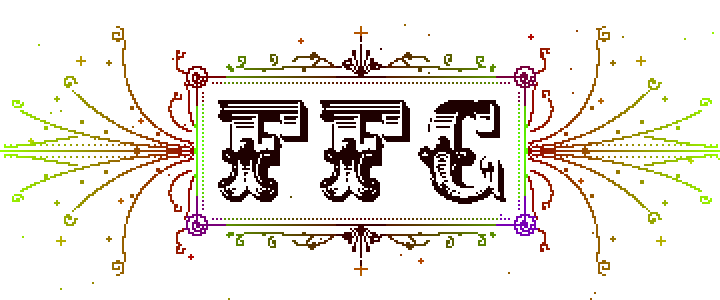
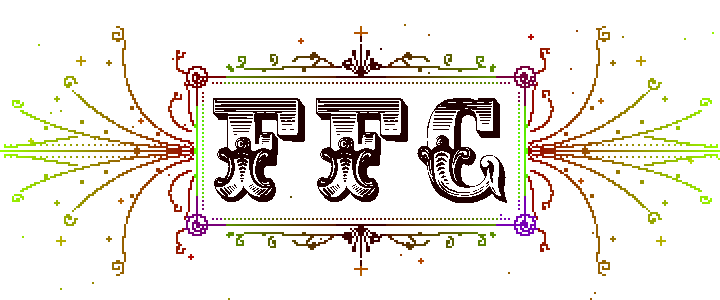
Replace rift with wireframe-to-Win95-boot hills section; hi-res dithered FFC letters

Changed region(s): [[0.275, 0.3, 0.7028, 0.69]]

diff --git a/scene.js b/scene.js
@@ -1,0 +1,96 @@
+// Scroll section: wireframe line-trace of the hills wallpaper, then a Win95-style stepped/dithered boot fade-in.
+// Perf: lines drawn incrementally onto a persistent canvas (no clears), dither steps computed ~8 times total,
+// nothing runs per frame outside the ~5s build; runs from the page's single rAF loop (FFC_HOOKS).
+(()=>{
+const sec=document.getElementById('scene'),sl=document.getElementById('sl'),sf=document.getElementById('sf'),img=document.getElementById('sbg');
+const boot=document.getElementById('boot'),bfill=document.getElementById('bfill');
+const lc=sl.getContext('2d'),fc=sf.getContext('2d');
+let data=null,state=0,t=0,segs=[],total=0,drawnLen=0,step=-1,src=null,SW=0,SH=0,secTop=0,secH=0;
+const T_LINES=2.8,T_FADE=1.7,STEPS=9,LS=2;     // line canvas at 1/2 css res (chunky pixels), fade canvas at 1/3
+const BAY=[0,8,2,10,12,4,14,6,3,11,1,9,15,7,13,5];
+fetch('scene-lines.json').then(r=>r.json()).then(j=>{data=j;layout();});
+function layout(){const r=sec.getBoundingClientRect();secTop=r.top+scrollY;secH=r.height;SW=r.width;SH=r.height;
+  sl.width=Math.ceil(SW/LS);sl.height=Math.ceil(SH/LS);sf.width=Math.ceil(SW/3);sf.height=Math.ceil(SH/3);
+  if(!data)return;segs=[];total=0;
+  const sc=Math.max(sl.width/data.w,sl.height/data.h),ox=(sl.width-data.w*sc)/2,oy=(sl.height-data.h*sc)/2;   // object-fit:cover mapping
+  const order={sky:0,cloud:1,hill:2,grass:3};
+  const L=data.lines.slice().sort((a,b)=>order[a.k]-order[b.k]);
+  for(const ln of L){const col=ln.k==='hill'?'#5dff6e':ln.k==='grass'?'#2fbf4a':ln.k==='cloud'?'#cfe9ff':'#3aa0ff';
+    for(let i=0;i<ln.p.length-1;i++){const x0=ox+ln.p[i][0]*data.w*sc,y0=oy+ln.p[i][1]*data.h*sc,x1=ox+ln.p[i+1][0]*data.w*sc,y1=oy+ln.p[i+1][1]*data.h*sc;
+      const len=Math.hypot(x1-x0,y1-y0);segs.push({x0,y0,x1,y1,len,start:total,col});total+=len;}}
+  if(state>=2)lc.clearRect(0,0,sl.width,sl.height),drawLines(total);
+}
+let rt;addEventListener('resize',()=>{clearTimeout(rt);rt=setTimeout(layout,150);});
+function drawLines(upTo){ // draw only the newly reached part of the path
+  for(const s of segs){if(s.start>=upTo)break;if(s.start+s.len<=drawnLen)continue;
+    const a=Math.max(0,(drawnLen-s.start)/s.len),b=Math.min(1,(upTo-s.start)/s.len);
+    lc.strokeStyle=s.col;lc.lineWidth=1;lc.beginPath();lc.moveTo(s.x0+(s.x1-s.x0)*a,s.y0+(s.y1-s.y0)*a);lc.lineTo(s.x0+(s.x1-s.x0)*b,s.y0+(s.y1-s.y0)*b);lc.stroke();}
+  drawnLen=upTo;}
+function prepSrc(){src=document.createElement('canvas');src.width=sf.width;src.height=sf.height;const c=src.getContext('2d');
+  const sc=Math.max(src.width/img.naturalWidth,src.height/img.naturalHeight);
+  c.drawImage(img,(src.width-img.naturalWidth*sc)/2,(src.height-img.naturalHeight*sc)/2,img.naturalWidth*sc,img.naturalHeight*sc);
+  src=c.getImageData(0,0,src.width,src.height);}
+function ditherStep(k){ // Win95-ish: ordered-dither reveal + coarse palette early on
+  if(!src)prepSrc();const w=sf.width,h=sf.height,out=fc.createImageData(w,h),d=out.data,s=src.data,th=k/STEPS*16;
+  const lv=k<3?2:k<5?4:k<7?8:256,q=255/(lv-1);
+  for(let y=0;y<h;y++)for(let x=0;x<w;x++){if(BAY[(y&3)*4+(x&3)]>=th)continue;const i=(y*w+x)*4;
+    if(lv<256){d[i]=Math.round(s[i]/q)*q;d[i+1]=Math.round(s[i+1]/q)*q;d[i+2]=Math.round(s[i+2]/q)*q;}else{d[i]=s[i];d[i+1]=s[i+1];d[i+2]=s[i+2];}d[i+3]=255;}
+  fc.putImageData(out,0,0);
+  sf.classList.toggle('flick',k===2);sf.classList.toggle('flick2',k===5);}
+function finish(){state=3;sec.classList.add('done');boot.classList.remove('on');document.dispatchEvent(new Event('scene-start'));}
+function hook(dt){
+  if(state===3||!data)return;
+  const top=secTop-scrollY;
+  if(state===0){if(top+secH<=0){layout();drawLines(total);finish();return;}       // loaded already past it
+    if(top<innerHeight*.65&&top+secH>0){state=1;t=0;document.dispatchEvent(new Event('scene-start'));}else return;}
+  t+=dt;
+  if(state===1){const k=Math.min(1,t/T_LINES),e=k<.5?2*k*k:1-Math.pow(-2*k+2,2)/2;drawLines(total*e);
+    if(t>T_LINES-.4)boot.classList.add('on');bfill.style.width=Math.min(100,(t-(T_LINES-.4))/(T_FADE+.6)*100)+'%';
+    if(k>=1){state=2;t=0;}return;}
+  if(state===2){if(!img.complete)return;const k=Math.min(STEPS,1+Math.floor(t/T_FADE*STEPS));
+    if(k!==step){step=k;ditherStep(k);}bfill.style.width=Math.min(100,(t+.4)/(T_FADE+.6)*100)+'%';
+    if(t>T_FADE+.2)finish();}
+}
+(window.FFC_HOOKS=window.FFC_HOOKS||[]).push(hook);
+addEventListener('load',layout);
+})();
+
+// ---- cloud lettering (rendered ONCE, animated with CSS transforms only) + click reveal
+(()=>{
+const scr=document.getElementById('scr'),cv=document.getElementById('clouds'),cv2=document.getElementById('clouds2');
+const TEXT='Archive of Things';let built=false;
+function puffSprite(seed){const S=96,o=document.createElement('canvas');o.width=o.height=S;const x=o.getContext('2d');let r=seed;const R=()=>(r=(r*16807)%2147483647)/2147483647;
+  for(let i=0;i<46;i++){const a=R()*6.283,d=Math.pow(R(),.7)*S*.3,px=S/2+Math.cos(a)*d,py=S/2+Math.sin(a)*d*.8,rr=S*(.08+R()*.16);
+    const gr=x.createRadialGradient(px,py,0,px,py,rr);gr.addColorStop(0,'rgba(255,255,255,.55)');gr.addColorStop(.6,'rgba(255,255,255,.22)');gr.addColorStop(1,'rgba(255,255,255,0)');x.fillStyle=gr;x.fillRect(0,0,S,S);}
+  x.globalCompositeOperation='source-atop';const sh=x.createLinearGradient(0,S*.15,0,S*.9);
+  sh.addColorStop(0,'rgba(255,255,255,0)');sh.addColorStop(.55,'rgba(225,232,242,.25)');sh.addColorStop(1,'rgba(150,162,182,.85)');x.fillStyle=sh;x.fillRect(0,0,S,S);return o;}
+function render(canvas,seed0){
+  const r=scr.getBoundingClientRect();if(r.width<10)return false;const DPR=Math.min(1.5,devicePixelRatio||1),W=r.width,H=r.height;
+  canvas.width=Math.round(W*DPR);canvas.height=Math.round(H*DPR);const c=canvas.getContext('2d');c.setTransform(DPR,0,0,DPR,0,0);
+  const sprites=[];for(let i=0;i<10;i++)sprites.push(puffSprite(seed0+i*7919));
+  const m=document.createElement('canvas'),mw=Math.round(W),mh=Math.round(H);m.width=mw;m.height=mh;const x=m.getContext('2d');
+  let fs=Math.min(mh*.17,mw*.085);x.font=`800 ${fs}px "Baloo 2", system-ui, sans-serif`;
+  while(x.measureText(TEXT).width>mw*.6){fs*=.95;x.font=`800 ${fs}px "Baloo 2", system-ui, sans-serif`;}
+  x.textAlign='center';x.textBaseline='middle';x.fillStyle='#fff';x.fillText(TEXT,mw/2,mh*.25);
+  const d=x.getImageData(0,0,mw,mh).data,step=Math.max(2.5,fs/17);let s=seed0;const R=()=>(s=(s*16807)%2147483647)/2147483647;const P=[];
+  for(let y=0;y<mh;y+=step)for(let xx=0;xx<mw;xx+=step){const jx=xx+(R()-.5)*step,jy=y+(R()-.5)*step,i=((jy|0)*mw+(jx|0))*4;
+    if(jx>=0&&jy>=0&&jx<mw&&jy<mh&&d[i+3]>128)P.push({x:jx,y:jy,r:step*(1.05+R()*.75),sp:sprites[R()*sprites.length|0],a:.55+R()*.35});}
+  P.sort((a,b)=>a.y-b.y);
+  // puffs drawn without per-draw filters; one blur pass over the finished bitmap
+  for(const p of P){const r2=p.r*1.1;c.globalAlpha=p.a*.35;c.drawImage(p.sp,p.x-r2,p.y-r2+p.r*.35,r2*2,r2*2);}
+  for(const p of P){const r2=p.r*.9;c.globalAlpha=p.a;c.drawImage(p.sp,p.x-r2,p.y-r2,r2*2,r2*2);}
+  c.globalAlpha=1;const tmp=document.createElement('canvas');tmp.width=canvas.width;tmp.height=canvas.height;tmp.getContext('2d').drawImage(canvas,0,0);
+  c.setTransform(1,0,0,1,0,0);c.clearRect(0,0,canvas.width,canvas.height);c.filter='blur(0.6px)';c.drawImage(tmp,0,0);c.filter='none';return true;}
+function build(){if(built)return;built=render(cv,7);if(built)setTimeout(()=>render(cv2,4242),1200);} // stagger 2nd variant
+let started=false;const start=()=>{if(started)return;started=true;(document.fonts?document.fonts.load('800 40px "Baloo 2"'):Promise.resolve()).finally(()=>{built=false;setTimeout(build,60);});};
+document.addEventListener('scene-start',start);
+let rt=null;addEventListener('resize',()=>{clearTimeout(rt);rt=setTimeout(()=>{if(built){built=false;build();}},200);});
+// click sequence (only inside the opening)
+const h=document.getElementById('cae'),go=document.getElementById('go');
+h.innerHTML=[...'Create and Explore'].map(ch=>`<span>${ch===' '?'&nbsp;':ch}</span>`).join('');
+let played=false;
+function play(){if(played)return;played=true;scr.classList.add('played');
+  [...h.children].forEach((sp,i)=>setTimeout(()=>sp.classList.add('on'),i*55));setTimeout(()=>go.classList.add('on'),18*55+350);}
+scr.addEventListener('click',e=>{if(e.target===go)return;if(!document.getElementById('scene').classList.contains('done'))return;play();});
+scr.addEventListener('keydown',e=>{if(e.key==='Enter'||e.key===' '){e.preventDefault();play();}});
+})();

diff --git a/index.html b/index.html
@@ -14,44 +14,38 @@ body{height:400vh}
 canvas{position:fixed;inset:0;width:100vw;height:100vh;image-rendering:pixelated;image-rendering:crisp-edges;display:block}
 
 #c{z-index:0}
-#fx{position:fixed;inset:0;width:100vw;height:100vh;image-rendering:pixelated;image-rendering:crisp-edges;pointer-events:none;z-index:2}
 #hint{z-index:3}
-#rift{position:absolute;left:50%;top:200vh;transform:translate(-50%,-50%);width:min(760px,92vw);height:min(480px,72vh);z-index:1;visibility:hidden;opacity:0;
-  display:flex;flex-direction:column;background:#c0c0c0;box-shadow:inset -1px -1px #404040,inset 1px 1px #fff,inset -2px -2px #808080,inset 2px 2px #dfdfdf;
-  font-family:"MS Sans Serif",Tahoma,"Segoe UI",sans-serif;color:#000;box-sizing:border-box;padding:3px}
-#rift.open{visibility:visible;opacity:1;transition:opacity .25s}
-#rift .tb{display:flex;align-items:center;gap:6px;height:22px;padding:0 3px;background:linear-gradient(90deg,#000080,#1084d0);color:#fff;font-weight:700;font-size:13px}
-#rift .tb img{width:16px;height:16px;image-rendering:pixelated}
-#rift .tb .bt{margin-left:auto;display:flex;gap:2px}
-#rift .tb .bt span{width:16px;height:14px;background:#c0c0c0;color:#000;font:700 10px/14px Tahoma,sans-serif;text-align:center;box-shadow:inset -1px -1px #404040,inset 1px 1px #fff}
-#rift .scr{position:relative;flex:1;margin-top:3px;background:#008080 url(https://rainbowroar14.github.io/PC/assets2/desktop-bg.png) center/cover;box-shadow:inset 1px 1px #808080,inset -1px -1px #fff;display:flex;align-items:center;justify-content:center;overflow:hidden}
-#rift .scr{cursor:pointer}
+#scene{position:absolute;left:0;top:170vh;width:100%;height:min(92vh,66.6vw);overflow:hidden;z-index:1}
+#sl,#sf,#sbg{position:absolute;inset:0;width:100%;height:100%;image-rendering:pixelated}
+#sbg{object-fit:cover;opacity:0}
+#scene.done #sbg{opacity:1}
+#scene.done #sf{display:none}
+#sf.flick{filter:invert(1) hue-rotate(160deg) saturate(3)}
+#sf.flick2{filter:contrast(2.2) saturate(.2) brightness(1.3)}
+#scr{position:absolute;inset:0;opacity:0;pointer-events:none;transition:opacity .8s}
+#scene.done #scr{opacity:1;pointer-events:auto;cursor:pointer}
+#boot{position:absolute;left:50%;bottom:9%;transform:translateX(-50%);width:min(340px,80vw);padding:8px 10px;background:#c0c0c0;box-shadow:inset -1px -1px #404040,inset 1px 1px #fff,inset -2px -2px #808080,inset 2px 2px #dfdfdf;font:12px "MS Sans Serif",Tahoma,sans-serif;color:#000;opacity:0;transition:opacity .2s}
+#boot.on{opacity:1}
+#boot .bar{margin-top:6px;height:16px;padding:2px;box-shadow:inset 1px 1px #808080,inset -1px -1px #fff;background:#fff}
+#bfill{height:100%;width:0;background:repeating-linear-gradient(90deg,#000080 0 10px,transparent 10px 12px)}
 #clouds,#clouds2{position:absolute;inset:0;width:100%;height:100%;pointer-events:none;will-change:transform,opacity;animation:drift 22s ease-in-out infinite alternate}
 #clouds2{animation:drift2 26s ease-in-out infinite alternate,morph 9s ease-in-out infinite alternate;opacity:0}
 @keyframes drift{0%{transform:translate(-6px,0) scale(1)}100%{transform:translate(8px,-2px) scale(1.015)}}
 @keyframes drift2{0%{transform:translate(5px,-1px) scale(1.01)}100%{transform:translate(-7px,1px) scale(1)}}
 @keyframes morph{0%{opacity:0}100%{opacity:.85}}
 #cta{position:absolute;left:0;right:0;top:50%;display:flex;flex-direction:column;align-items:center;gap:16px;pointer-events:none}
-#cae{margin:0;font:800 clamp(22px,4.2vw,38px)/1 "Baloo 2",system-ui,sans-serif;color:#fff;text-shadow:0 3px 0 rgba(0,0,60,.35),0 6px 18px rgba(0,0,0,.45);white-space:nowrap}
+#cae{margin:0;font:800 clamp(26px,4.6vw,60px)/1 "Baloo 2",system-ui,sans-serif;color:#fff;text-shadow:0 3px 0 rgba(0,0,60,.35),0 6px 18px rgba(0,0,0,.45);white-space:nowrap}
 #cae span{display:inline-block;opacity:0;transform:scale(0) translateY(20px)}
 #cae span.on{animation:pop .55s cubic-bezier(.2,1.6,.4,1) forwards}
 @keyframes pop{0%{opacity:0;transform:scale(0) translateY(20px)}60%{opacity:1;transform:scale(1.25) translateY(-4px)}100%{opacity:1;transform:scale(1) translateY(0)}}
+#go{display:inline-block;padding:9px 20px;background:#000080;color:#fff;text-decoration:none;font:700 15px Tahoma,"Segoe UI",sans-serif;box-shadow:inset -2px -2px #00004a,inset 2px 2px #3d6cff,3px 3px 0 #000}
+#go:hover{background:#1084d0}#go:focus-visible{outline:2px dotted #fff;outline-offset:3px}
 #go{opacity:0;transform:scale(0);pointer-events:none}
 #go.on{pointer-events:auto;animation:bounce .7s cubic-bezier(.2,1.8,.4,1) forwards}
 @keyframes bounce{0%{opacity:0;transform:scale(0)}55%{opacity:1;transform:scale(1.18)}75%{transform:scale(.94)}100%{opacity:1;transform:scale(1)}}
+#scr.played .clickhint{display:none}
 .clickhint{position:absolute;left:50%;transform:translateX(-50%);bottom:24%;color:#fff;font:600 12px/1 system-ui,sans-serif;letter-spacing:.12em;text-transform:lowercase;text-shadow:0 1px 3px rgba(0,0,0,.6);opacity:.8;animation:hp 1.6s ease-in-out infinite;pointer-events:none}
 @keyframes hp{0%,100%{opacity:.35}50%{opacity:.9}}
-#rift .scr.played .clickhint{display:none}
-#rift .card{background:rgba(0,0,40,.55);border:2px solid #fff;padding:18px 26px;text-align:center;color:#fff;box-shadow:4px 4px 0 rgba(0,0,0,.45)}
-#rift h2{margin:0 0 4px;font:400 clamp(30px,6vw,54px)/1 "VT323",monospace;letter-spacing:.04em;text-shadow:2px 2px 0 #000080}
-#rift p{margin:0 0 14px;font:400 clamp(15px,2.4vw,20px)/1.2 "VT323",monospace;color:#e8f4ff}
-#rift a.go{display:inline-block;padding:8px 18px;background:#000080;color:#fff;text-decoration:none;font:700 15px Tahoma,"Segoe UI",sans-serif;box-shadow:inset -2px -2px #00004a,inset 2px 2px #3d6cff,3px 3px 0 #000}
-#rift a.go:hover{background:#1084d0}
-#rift a.go:focus-visible{outline:2px dotted #fff;outline-offset:3px}
-#rift .task{display:flex;align-items:center;gap:6px;height:26px;margin-top:3px;padding:0 3px;background:#c0c0c0;box-shadow:inset 0 1px #fff}
-#rift .start{display:flex;align-items:center;gap:4px;padding:1px 6px;font-weight:700;font-size:12px;box-shadow:inset -1px -1px #404040,inset 1px 1px #fff,inset -2px -2px #808080;color:#000;text-decoration:none}
-#rift .start img{width:16px;height:16px;image-rendering:pixelated}
-#rift .clock{margin-left:auto;padding:2px 8px;font-size:12px;box-shadow:inset 1px 1px #808080,inset -1px -1px #fff}
 </style>
 <link rel="preconnect" href="https://fonts.googleapis.com"><link href="https://fonts.googleapis.com/css2?family=VT323&family=Baloo+2:wght@800&display=swap" rel="stylesheet">
 </head>
@@ -270,17 +264,18 @@ function frame(ts){
 }
 })();
 </script>
-<canvas id="fx" aria-hidden="true"></canvas>
-<section id="rift" aria-label="Archive of Things">
-  <div class="tb"><img src="https://rainbowroar14.github.io/PC/assets/tab-icon.png" alt="">Archive of Things<div class="bt"><span>_</span><span>□</span><span>×</span></div></div>
-  <div class="scr" id="scr" role="button" tabindex="0" aria-label="Archive of Things: click to explore">
-    <canvas id="clouds" aria-hidden="true"></canvas><canvas id="clouds2" class="alt" aria-hidden="true"></canvas>
+<section id="scene" aria-label="Archive of Things">
+  <canvas id="sl" aria-hidden="true"></canvas>
+  <canvas id="sf" aria-hidden="true"></canvas>
+  <img id="sbg" src="https://rainbowroar14.github.io/PC/assets2/desktop-bg.png" crossorigin="anonymous" alt="">
+  <div id="scr" role="button" tabindex="0" aria-label="Archive of Things: click to explore">
+    <canvas id="clouds" aria-hidden="true"></canvas><canvas id="clouds2" aria-hidden="true"></canvas>
     <div id="cta"><h3 id="cae" aria-label="Create and Explore"></h3>
       <a class="go" id="go" href="https://rainbowroar14.github.io/PC/" target="_blank" rel="noopener">Open Archive of Things</a></div>
-    <div class="clickhint">click</div></div>
-  <div class="task"><a class="start" href="https://rainbowroar14.github.io/PC/" target="_blank" rel="noopener"><img src="https://rainbowroar14.github.io/PC/assets/start-flag.png" alt="">Start</a><span class="clock" id="riftclock"></span></div>
+    <div class="clickhint">click</div>
+  </div>
+  <div id="boot"><div class="bt">Starting Archive of Things...</div><div class="bar"><div id="bfill"></div></div></div>
 </section>
-<script src="rift.js"></script>
-<script>setInterval(()=>{const c=document.getElementById('riftclock');if(c)c.textContent=new Date().toLocaleTimeString([], {hour:'numeric',minute:'2-digit'});},1000);</script>
+<script src="scene.js"></script>
 </body>
 </html>
